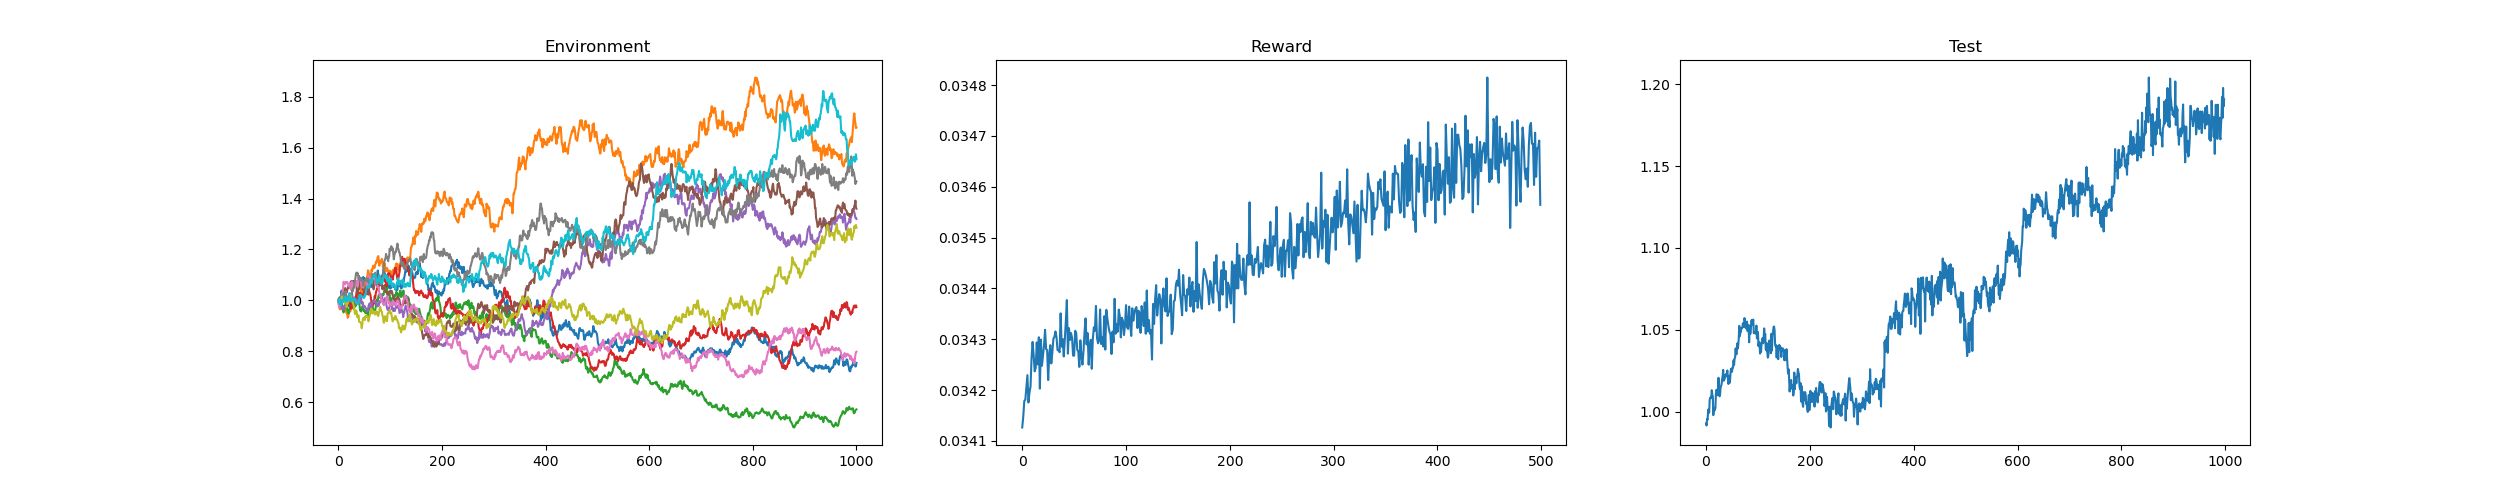
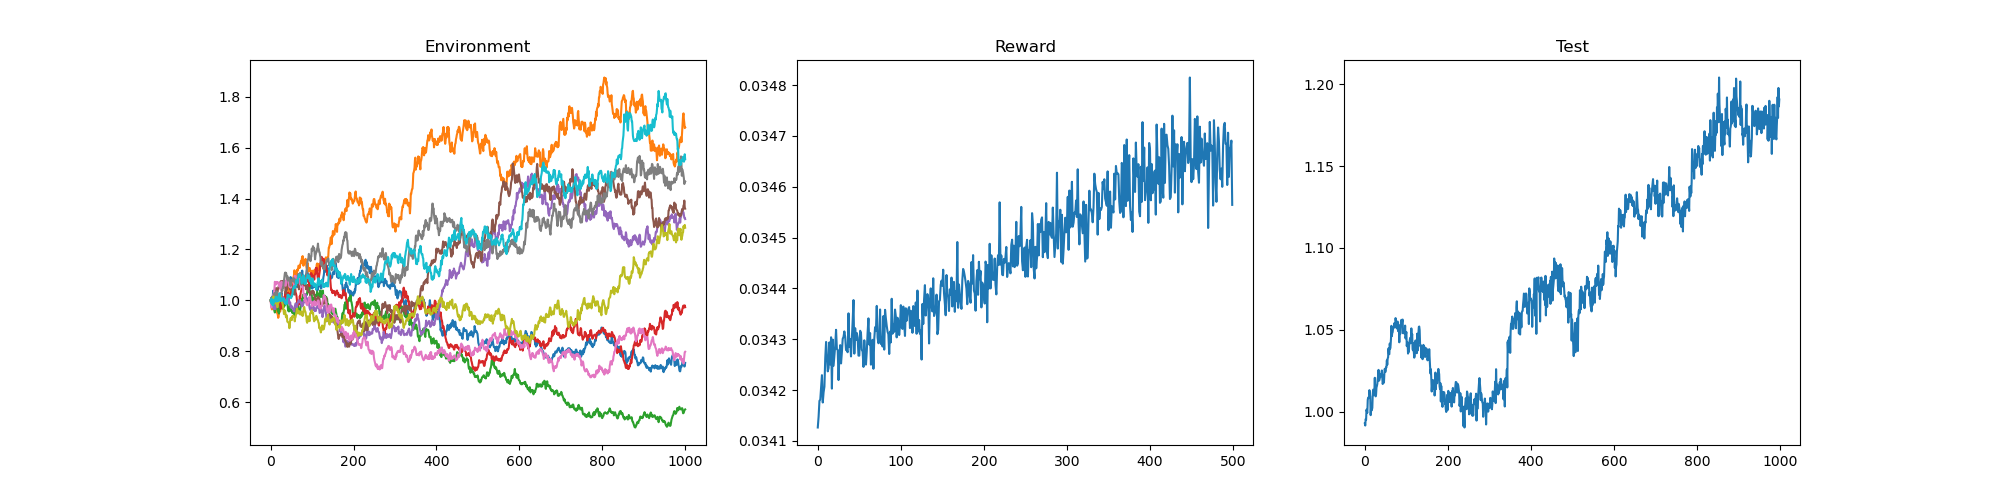
2024-04-21

diff --git a/python/plot.py b/python/plot.py
@@ -3,7 +3,7 @@
 import pandas as pd
 import matplotlib.pyplot as plt
 
-plt.figure(figsize=(25, 5))
+plt.figure(figsize=(20,5))
 
 path = pd.read_csv("./res/path")
 plt.subplot(1, 3, 1)

diff --git a/README.md b/README.md
@@ -38,7 +38,7 @@ $$Q^{*}(s_{t},a_{t})=r_{t}+{\gamma}Q'(s_{t+1},a_{t+1}=\mu'(s_{t+1}))$$
 
 Since the critic network directly maps the state-action space to reward, the action gradient $\frac{dQ}{da}$ must be computed for each action while updating the critic network such that $\nabla{J}=\nabla_{a_{t}}Q(s_{t},a_{t};\theta)\nabla_{\phi}\mu(s_{t})$ can be computed to maximize $J$. Exploration can be done by either adding OU noise or uncorrelated Gaussian noise to the parameters.
 
-Let the state space be $s_{t}=(P_{1}(t), P_{2}(t), ..., P_{n-1}(t), P_{n}(t))$ where $P_{i}(t)$ is the most recent position of each independent particle. Given $s_t$, the actor yields the action space $a_{t}$ where each value in $a_{t}$ is the percentage allocation corresponding to each independent particle's position. The reward is calculated as $r_{t}=\log(s_{t+1}{\cdot}a_{t})$.
+Let the state space be $s_{t}=(\delta p_{1}(t), \delta p_{2}(t), ..., \delta p_{n-1}(t), \delta p_{n}(t))$ where $\delta P_{i}(t)$ is the percentage change in the position of each independent particle between one time step. Given $s_t$, the actor yields the action space $a_{t}$ where each value in $a_{t}$ is the percentage allocation corresponding to each independent particle's position. The reward is calculated as $r_{t}=\log(p_{t+1}{\cdot}a_{t})$.
 
 ## Parameters
 
